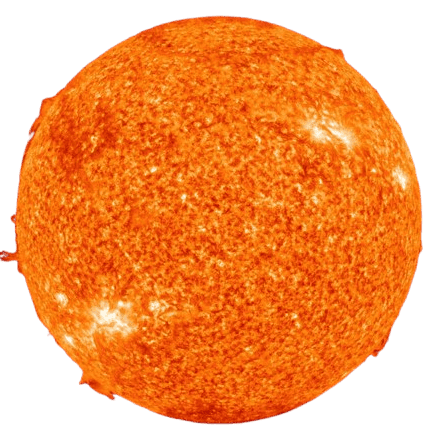
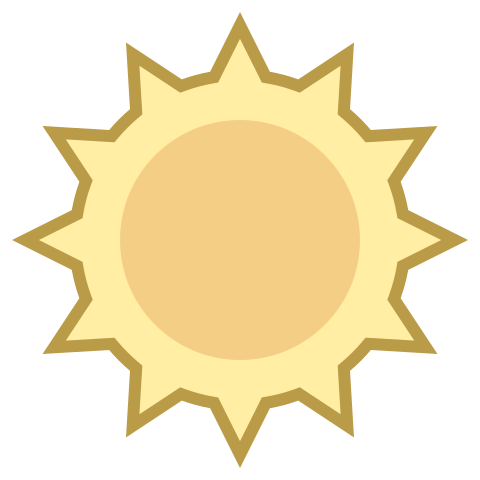
feat: work with main page

diff --git a/mainPage/weatherModule/weatherPreview.js b/mainPage/weatherModule/weatherPreview.js
@@ -4,20 +4,20 @@ import codesRu from "./weatherDataCodesRu.js";
 const weatherPreview = async (city) => {
     const weatherPreview = document.querySelector(".weather_preview");
     const data = await weatherRequest(city);
-    console.log(data);
+    localStorage.setItem('lastRespCity', `${city}`);
     const description = codesRu.find(item => {
         return item.code === data.current.condition.code;
     });
     let weatherDescription;
     data.current.is_day === 0 ? weatherDescription = description.night : weatherDescription = description.day;
-    console.log(description)
     weatherPreview.innerHTML = `
+        <p class="block__description weather__common-description last-resp"></p>
         <img src="${data.current.condition.icon}" class="weather__icon" alt="weather icon"/>
         <p class="block__description weather__common-description">${weatherDescription}.</p>
-        <p class="block__description temperature">Температура воздуха: ${data.current.temp_c} °C.</p>
-        <p class="block__description feelsLike">Ощущается: ${data.current.feelslike_c} °C.</p>
+        <p class="block__description temperature">Температура воздуха: ${Math.floor(data.current.temp_c)} °C.</p>
+        <p class="block__description feelsLike">Ощущается: ${Math.floor(data.current.feelslike_c)} °C.</p>
         <p class="block__description humidity">Влажность: ${data.current.humidity} %</p>
-        <p class="block__description wind">Скорость ветра: ${data.current.wind_kph} км/ч.</p>
+        <p class="block__description wind">Скорость ветра: ${Math.floor(data.current.wind_kph)} км/ч.</p>
     `
 
 }

diff --git a/mainPage/mainPage.js b/mainPage/mainPage.js
@@ -1,11 +1,11 @@
 import quoteAction from "./dayQuoteModule/quoteAction.js";
-import solarLogic from "./coronalMassEjectionModule/solarLogic.js";
 import geomagneticActivity from "./geomagneticActivity/geomagneticActivity.js";
 import kpIndexNowPreview from "./geomagneticActivity/kpIndexNowPreview.js";
 import geomagneticAnalysisPreview from "./geomagneticAnalysis/geomagneticAnalysisPreview.js";
 import coronalMassFormingData from "./coronalMassEjectionModule/coronalMassFormingData.js";
 import dataCMEOutput from "./coronalMassEjectionModule/dataCMEOutput.js";
 import weatherAction from "./weatherModule/weatherAction.js";
+import weatherLastResp from "./weatherModule/weatherLastResp.js";
 
 const mainPage = () => {
     const main = document.querySelector(".main");
@@ -27,7 +27,6 @@ const mainPage = () => {
                 <h3 class="solar-preview__title">Солнечная активность.</h3>
                 <div class="solar-preview-box">
                     <img src="./assets/images/mainPage/sun.png" class="solar-preview__pic" alt="solar-static"/>
-                    <img src="./assets/images/mainPage/sunAnimated.gif" class=" solar-preview__animation solar-preview__animation_deactive" alt="solar-animated"/>
                 </div>
                 <div class="main-wrapper-block solar__description"></div>
             <div/>
@@ -62,9 +61,9 @@ const mainPage = () => {
     geomagneticActivity();
     geomagneticAnalysisPreview();
     kpIndexNowPreview();
-    solarLogic();
     dataCMEOutput();
     weatherAction();
+    weatherLastResp();
     
 };
 

diff --git a/mainPage/mainPage.css b/mainPage/mainPage.css
@@ -23,17 +23,30 @@
 }
 .solar-preview__pic {
     display: block;
-    width: 19rem;
+    width: 17rem;
+    animation: rotate 15s linear infinite, grow 1s linear infinite;
 }
-.solar-preview__pic_deactive {
-    display: none;
+@keyframes rotate {
+    0% {
+        transform: rotate(0deg);
+    }
+    50% {
+        transform: rotate(360deg);
+    }
+    100% {
+        transform: rotate(0deg);
+    }
 }
-.solar-preview__animation {
-    display: block;
-    width: 22rem;
-}
-.solar-preview__animation_deactive {
-    display: none;
+@keyframes grow {
+    0% {
+        scale: 1;
+    }
+    50% {
+        scale: 1.06;
+    }
+    100% {
+        scale: 1;
+    }
 }
 .kp-index-wrapper {
     display: flex;

diff --git a/mainPage/weatherModule/weatherLastResp.js b/mainPage/weatherModule/weatherLastResp.js
@@ -1,0 +1,20 @@
+import weatherPreview from "./weatherPreview.js";
+
+const weatherLastResp = async () => {
+    try {
+        const lastCity = localStorage.getItem('lastRespCity');
+        
+        if (!lastCity) return;
+
+        await weatherPreview(lastCity);
+
+        const lastResp = document.querySelector(".last-resp");
+        if (lastResp) {
+            lastResp.textContent = `В последний раз вы смотрели погоду для города: ${lastCity}.`;
+        }
+    } catch (error) {
+        console.error("Ошибка в weatherLastResp:", error);
+    }
+};
+
+export default weatherLastResp;
